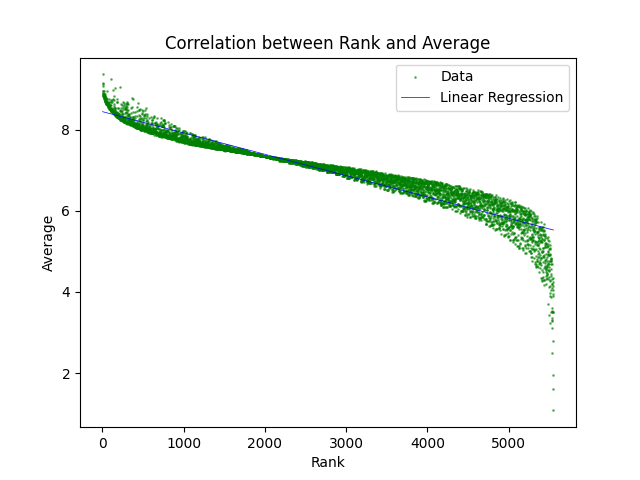
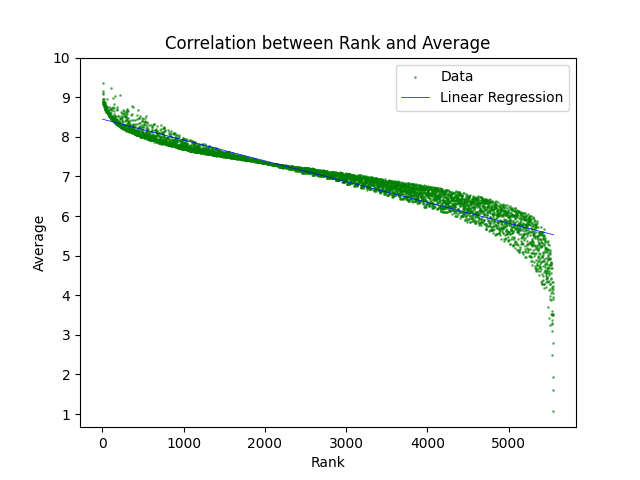
Feat: yticks 1 to 10 for average

diff --git a/game/stat.py b/game/stat.py
@@ -213,6 +213,8 @@ def xy_corr(x, y, xname, yname, fname, n, ofile):
     ofile.write("%s = a * %s + b,%.6f,%.6f\n" % (yname, xname, m, b))
     plt.plot(x, m*np.float64(x) + b, color='b', linewidth=.5)
     plt.legend(["Data", "Linear Regression"])
+    if yname == "Average":
+        plt.yticks(range(1, 11))
     plt.savefig(pre + fname)
     plt.clf()
     ofile.write("\n")

diff --git a/stat.py b/stat.py
@@ -214,6 +214,8 @@ def xy_corr(x, y, xname, yname, fname, n, ofile):
     plt.plot(x, m*np.float64(x) + b, color='b', linewidth=.5)
     plt.legend(["Data", "Linear Regression"])
     plt.savefig(pre + fname)
+    if yname == "Average":
+        plt.yticks(range(1, 11))
     plt.clf()
     ofile.write("\n")
 
